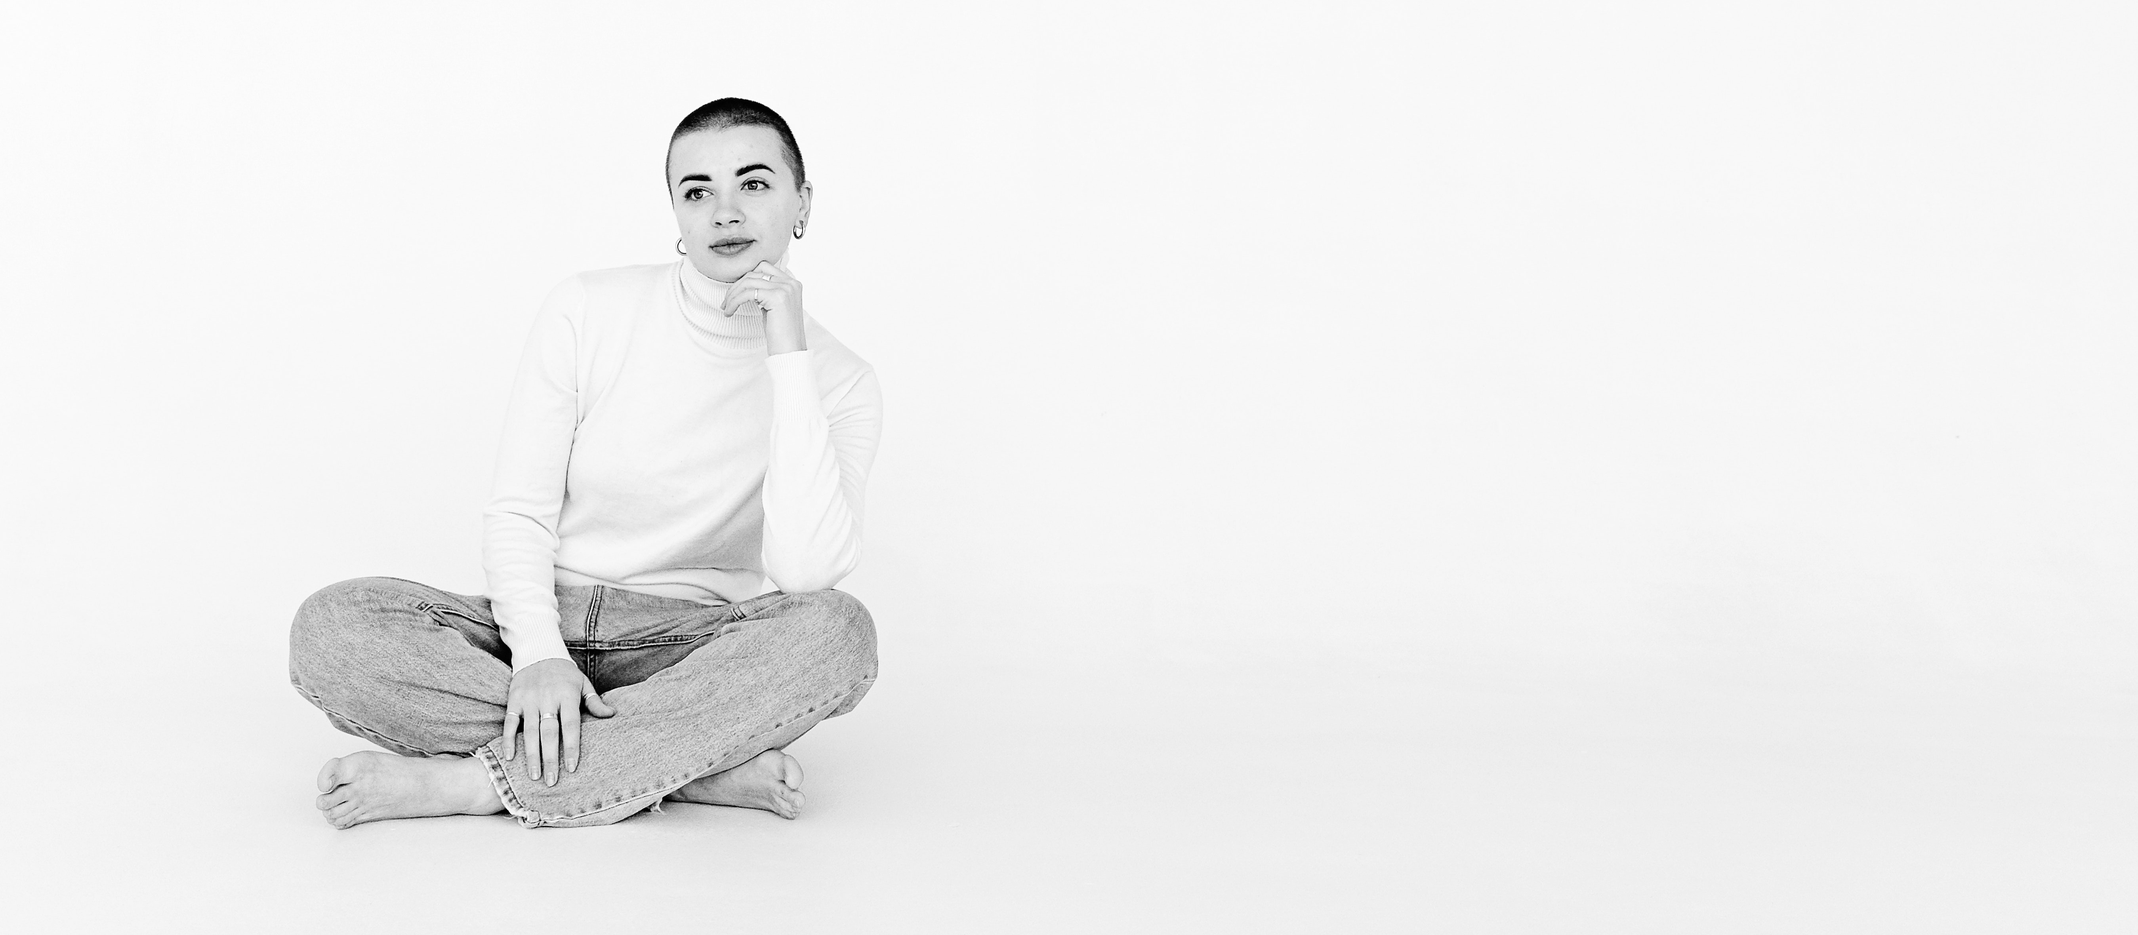
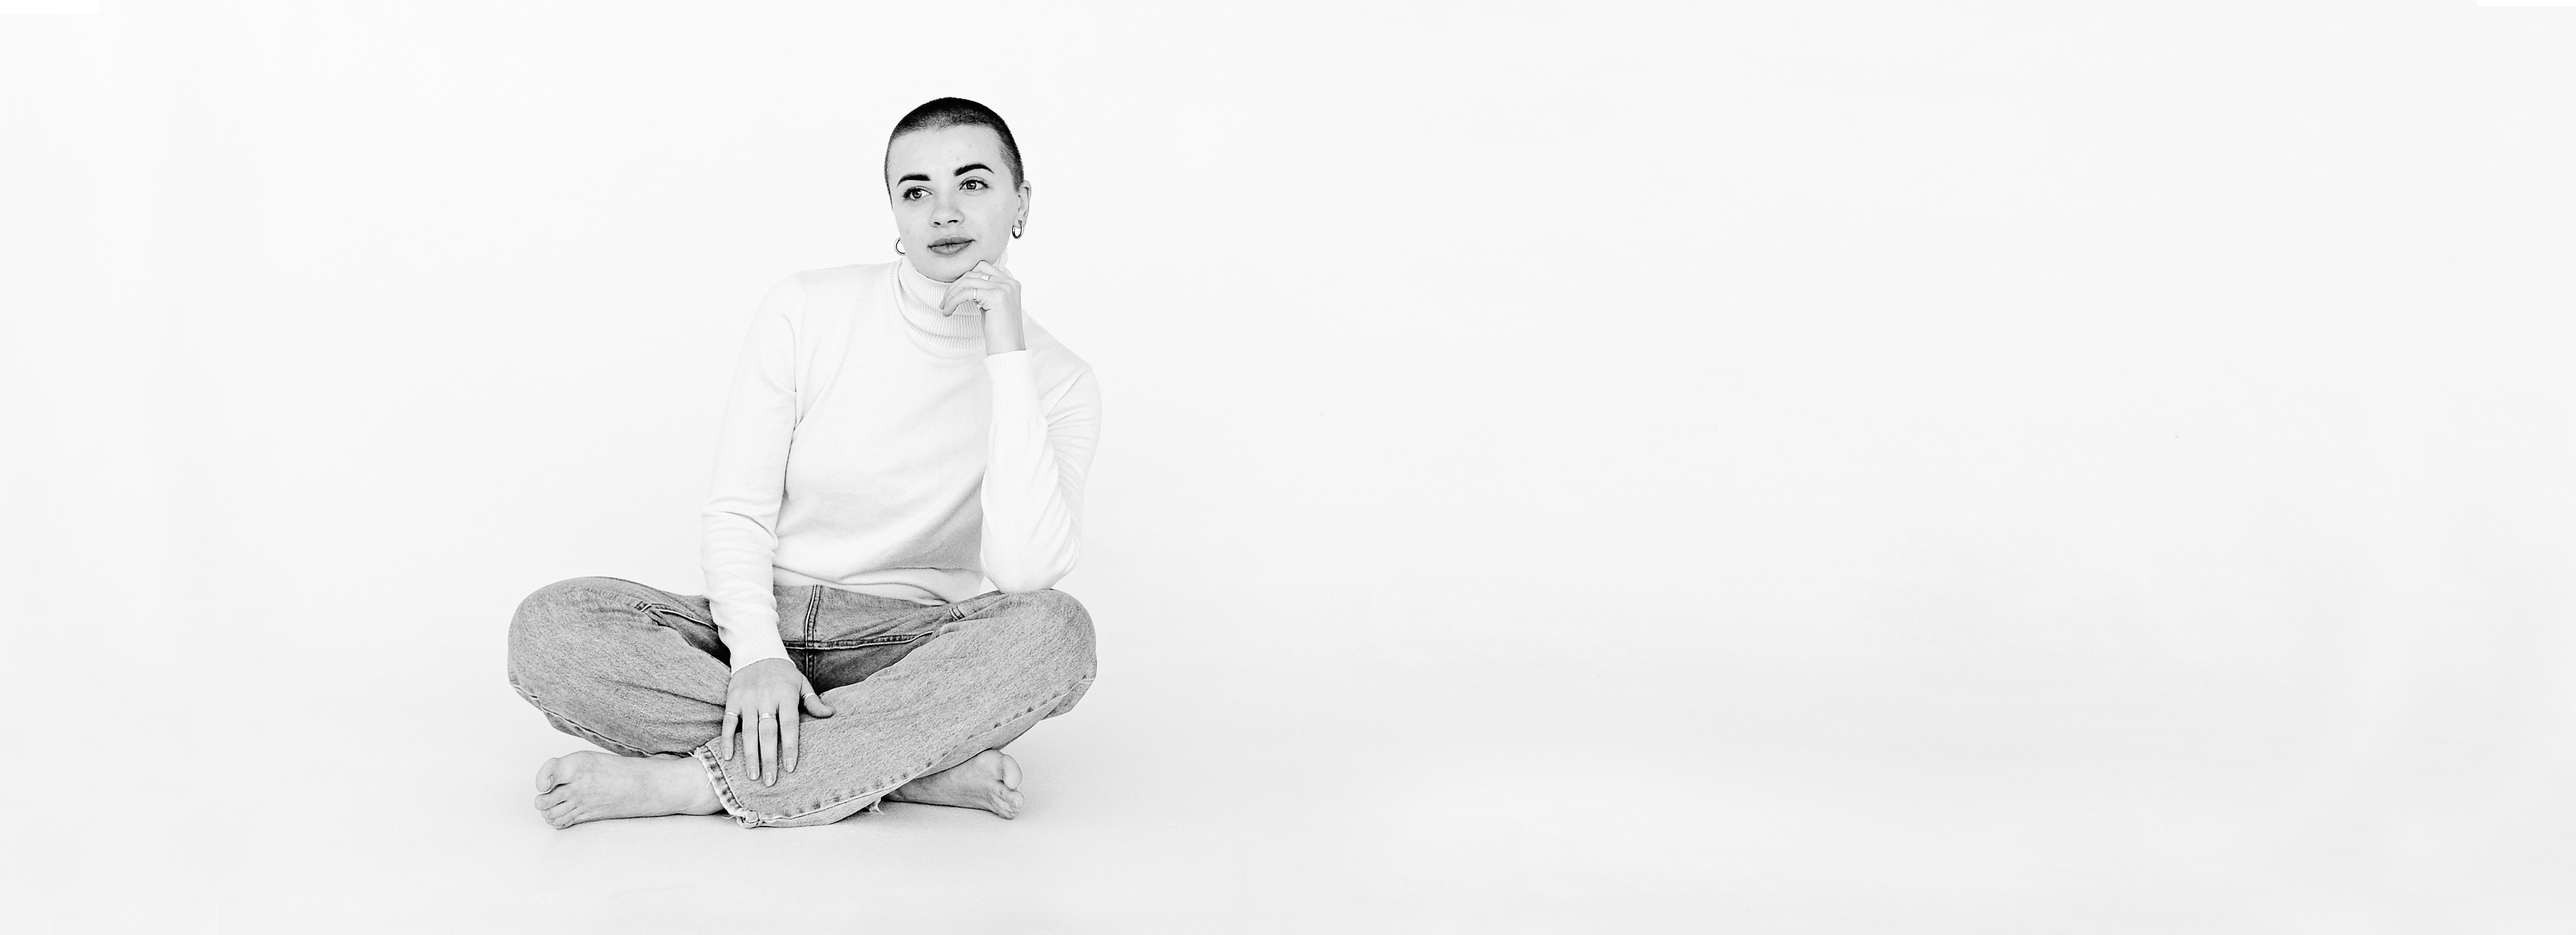
update background photo

Changed region(s): [[0.1245, 0.5258, 0.4358, 0.897], [0.3113, 0.0928, 0.4047, 0.3712]]

diff --git a/src/pages/MamaMarafonPage/MamaMarafonPage.jsx b/src/pages/MamaMarafonPage/MamaMarafonPage.jsx
@@ -8,10 +8,13 @@ const MamaMarafonPage = () => {
   return (
     <section className={s.mamamarafon}>
       <div className={s.hero}>
-        <h2>Їжа, йога,</h2>
-        <h2> грудне вигодовування </h2>
-        <h2>та стиль для мами</h2>
-        <p className={s.hero__text}>Все, щоб ви почувалися на мільйон, в одному флаконі!</p>
+        <h2>
+          Їжа, йога, <br /> грудне вигодовування <br />
+          та стиль для мами
+        </h2>
+        <p className={s.hero__text}>
+          Все, щоб ви почувалися на мільйон, в одному флаконі!
+        </p>
       </div>
       <div className={`container`}>
         <div className={s.about}>
@@ -25,7 +28,7 @@ const MamaMarafonPage = () => {
             <img src={Photo} alt="replacePhoto" width={550} />
           </div>
           <div className={s.options__describe}>
-            <h2 >Мамо, марафон!</h2>
+            <h2>Мамо, марафон!</h2>
             <p>
               Дівчата, спеціально для вас розробили супер програму для вагітних
               і мам, щоб ви:

diff --git a/src/pages/MamaMarafonPage/MamaMarafonPage.module.scss b/src/pages/MamaMarafonPage/MamaMarafonPage.module.scss
@@ -7,12 +7,12 @@
   }
   h2 {
     padding: 10px;
-    font-size: 5vw;
+    font-size: 4.5vw;
     @media screen and (min-width: 768px) {
       font-size: 3.3vw;
     }
   }
-  &__title{
+  &__title {
     margin-bottom: 15px;
     @media screen and (min-width: 768px) {
       margin-bottom: 32px;
@@ -74,7 +74,7 @@
       li {
         list-style: circle;
       }
-      p{
+      p {
         font-size: 3vw;
         @media screen and (min-width: 768px) {
           font-size: 2vw;
@@ -118,7 +118,7 @@
     @media screen and (min-width: 768px) {
       padding: 50px;
     }
-    
+
     ul {
       display: grid;
       grid-template-columns: repeat(2, 1fr);
@@ -131,16 +131,22 @@
   }
 }
 .telegram {
-  width: 70px;
-  height: 70px;
+  width: 40px;
+  height: 40px;
   border-radius: 50%;
   box-shadow: 5px 5px 5px var(--shadow-color), 2px 2px 15px var(--shadow-color);
   position: fixed;
-  bottom: 40px;
-  right: 40px;
+  bottom: 10px;
+  right: 10px;
   display: flex;
   justify-content: center;
   align-items: center;
+  @media screen and (min-width: 768px) {
+    width: 50px;
+    height: 50px;
+    bottom: 40px;
+    right: 40px;
+  }
   svg {
     fill: var(--accent-button-color);
   }

diff --git a/src/components/AllForYou/AllForYou.jsx b/src/components/AllForYou/AllForYou.jsx
@@ -8,7 +8,7 @@ const AllForYou = () => {
         <ul>
           <li>Легке навчання у зручний для вас час</li>
           <li>
-            Напишіть, що відчуваєте нам в{" "}
+            Напишіть, що відчуваєте нам в  &nbsp;
             <a
               rel="noopener noreferrer"
               target="_blank"
@@ -16,7 +16,7 @@ const AllForYou = () => {
             >
               Телеграм
             </a>
-            і ми все зробимо, щоб вам стало краще
+            &nbsp;і ми все зробимо, щоб вам стало краще
           </li>
           <li>
             Зворотний зв‘язок на весь період курсу від кураторки через соціальні

diff --git a/src/components/ProfileUser/ProfileUser.module.scss b/src/components/ProfileUser/ProfileUser.module.scss
@@ -1,6 +1,5 @@
 .card {
   display: flex;
-  box-sizing: border-box;
   width: 50vw;
   height: 50vh;
   border-radius: 50px;
@@ -10,7 +9,6 @@
   flex-direction: column;
   justify-content: center;
   .usercard {
-    box-sizing: border-box;
     width: 90%;
     height: 90%;
     border: 1px solid var(--shadow-color);
@@ -39,7 +37,7 @@
   .btn {
     position: absolute;
     top: 5px;
-   right: 40px;
+    right: 40px;
     font-size: 0.9rem;
     margin-top: 30px;
     padding: 5px 10px;
@@ -49,6 +47,6 @@
     border: none;
     &:hover {
       fill: var(--check-color);
-    }   
+    }
   }
 }

diff --git a/src/components/CardUser/CardUser.module.scss b/src/components/CardUser/CardUser.module.scss
@@ -1,6 +1,5 @@
 .card {
   display: flex;
-  box-sizing: border-box;
   width: 50vw;
   height: 50vh;
   border-radius: 50px;
@@ -9,8 +8,7 @@
   align-items: center;
   flex-direction: column;
   justify-content: center;
-  .usercard {
-    box-sizing: border-box;
+  .usercard {    
     width: 90%;
     height: 90%;
     border: 1px solid var(--shadow-color);

diff --git a/src/components/AuthForm/AuthForm.module.scss b/src/components/AuthForm/AuthForm.module.scss
@@ -35,7 +35,6 @@
   input {
     background: #e8f0fe;
     width: 95%;
-    // height: 40px;
     border-radius: 8px;
     font-size: 1.2rem;
   }
@@ -48,7 +47,7 @@
     width: 170px;
     border-radius: 8px;
     border: none;
-    height: 24px;
+    height: auto;
     margin: 0 auto;
     text-align: center;
     cursor: pointer;

diff --git a/src/pages/LoginPage/LoginPage.module.scss b/src/pages/LoginPage/LoginPage.module.scss
@@ -2,7 +2,6 @@
   min-height: calc(100vh - 70px - 56px);
   margin-top: 51px;
   padding-top: 40px;
-  box-sizing: border-box;
   @media screen and (min-width: 768px) {
     display: flex;
     justify-content: center;

diff --git a/src/components/Modal/Modal.module.scss b/src/components/Modal/Modal.module.scss
@@ -20,7 +20,6 @@
   max-width: 700px;
   width: 70vw;
   position: relative;
-  box-sizing: border-box;
 }
 
 // =========================================================

diff --git a/src/components/WeeksList/WeeksList.module.scss b/src/components/WeeksList/WeeksList.module.scss
@@ -1,6 +1,4 @@
 .weekslist {
-  //   background-color: var(--shadow-color);
-  //   box-sizing: border-box;
   display: flex;
   text-align: center;
 

diff --git a/src/App.scss b/src/App.scss
@@ -1,5 +1,4 @@
 .container {
-  box-sizing: border-box;
   margin-left: auto;
   margin-right: auto;
   // min-height: calc( 100vh - 80px - 56px );

diff --git a/src/components/_navigations/Footer/Footer.module.scss b/src/components/_navigations/Footer/Footer.module.scss
@@ -1,5 +1,4 @@
 .footerContainer {
-  box-sizing: border-box;
   height: 56px;
   display: flex;
   flex-direction: column;

diff --git a/src/index.scss b/src/index.scss
@@ -29,6 +29,9 @@
   --gradient2:#a270b9;
   --gradient3: #6c59d1;
 }
+*{
+  box-sizing: border-box;
+}
 
 p,
 h1,
